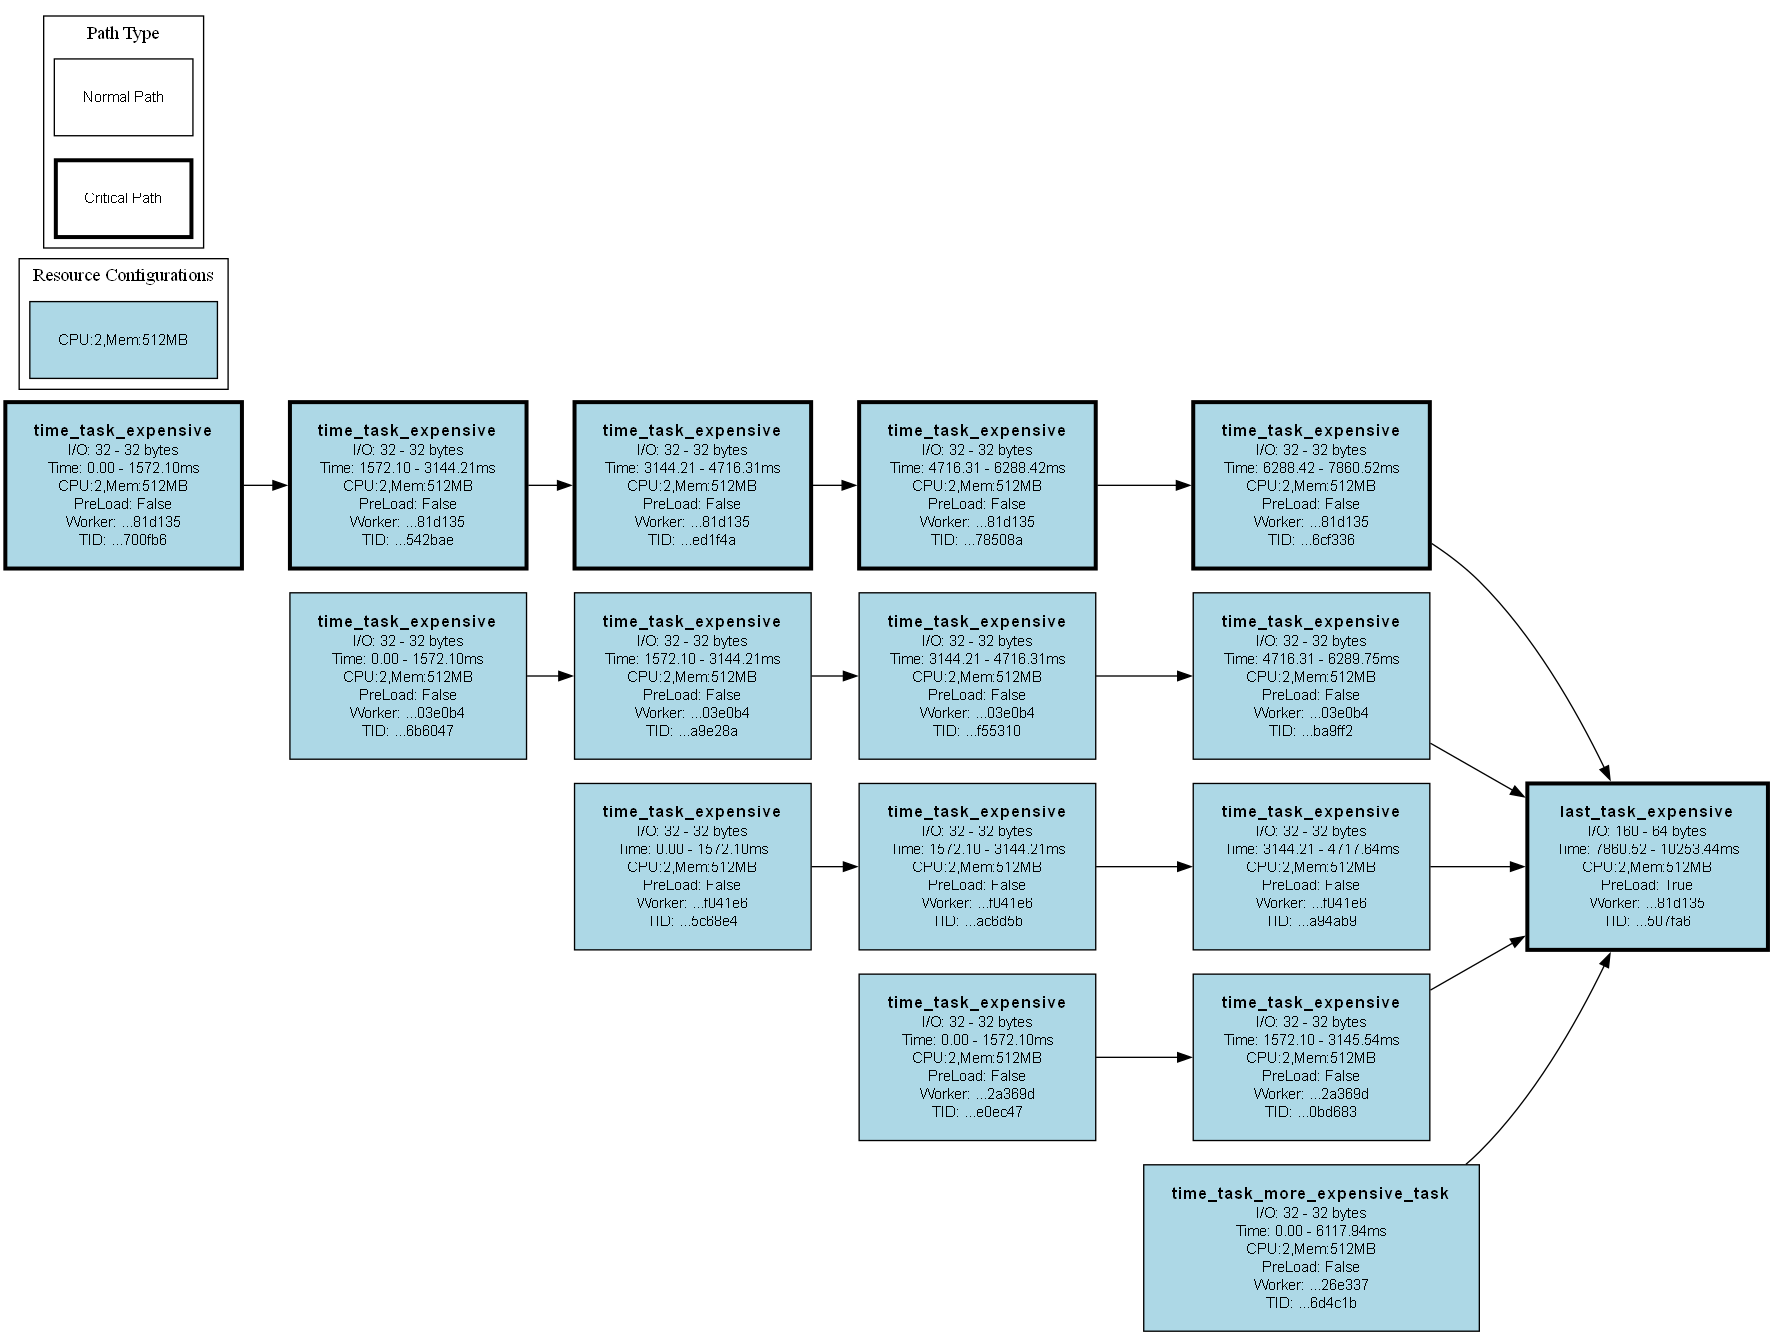
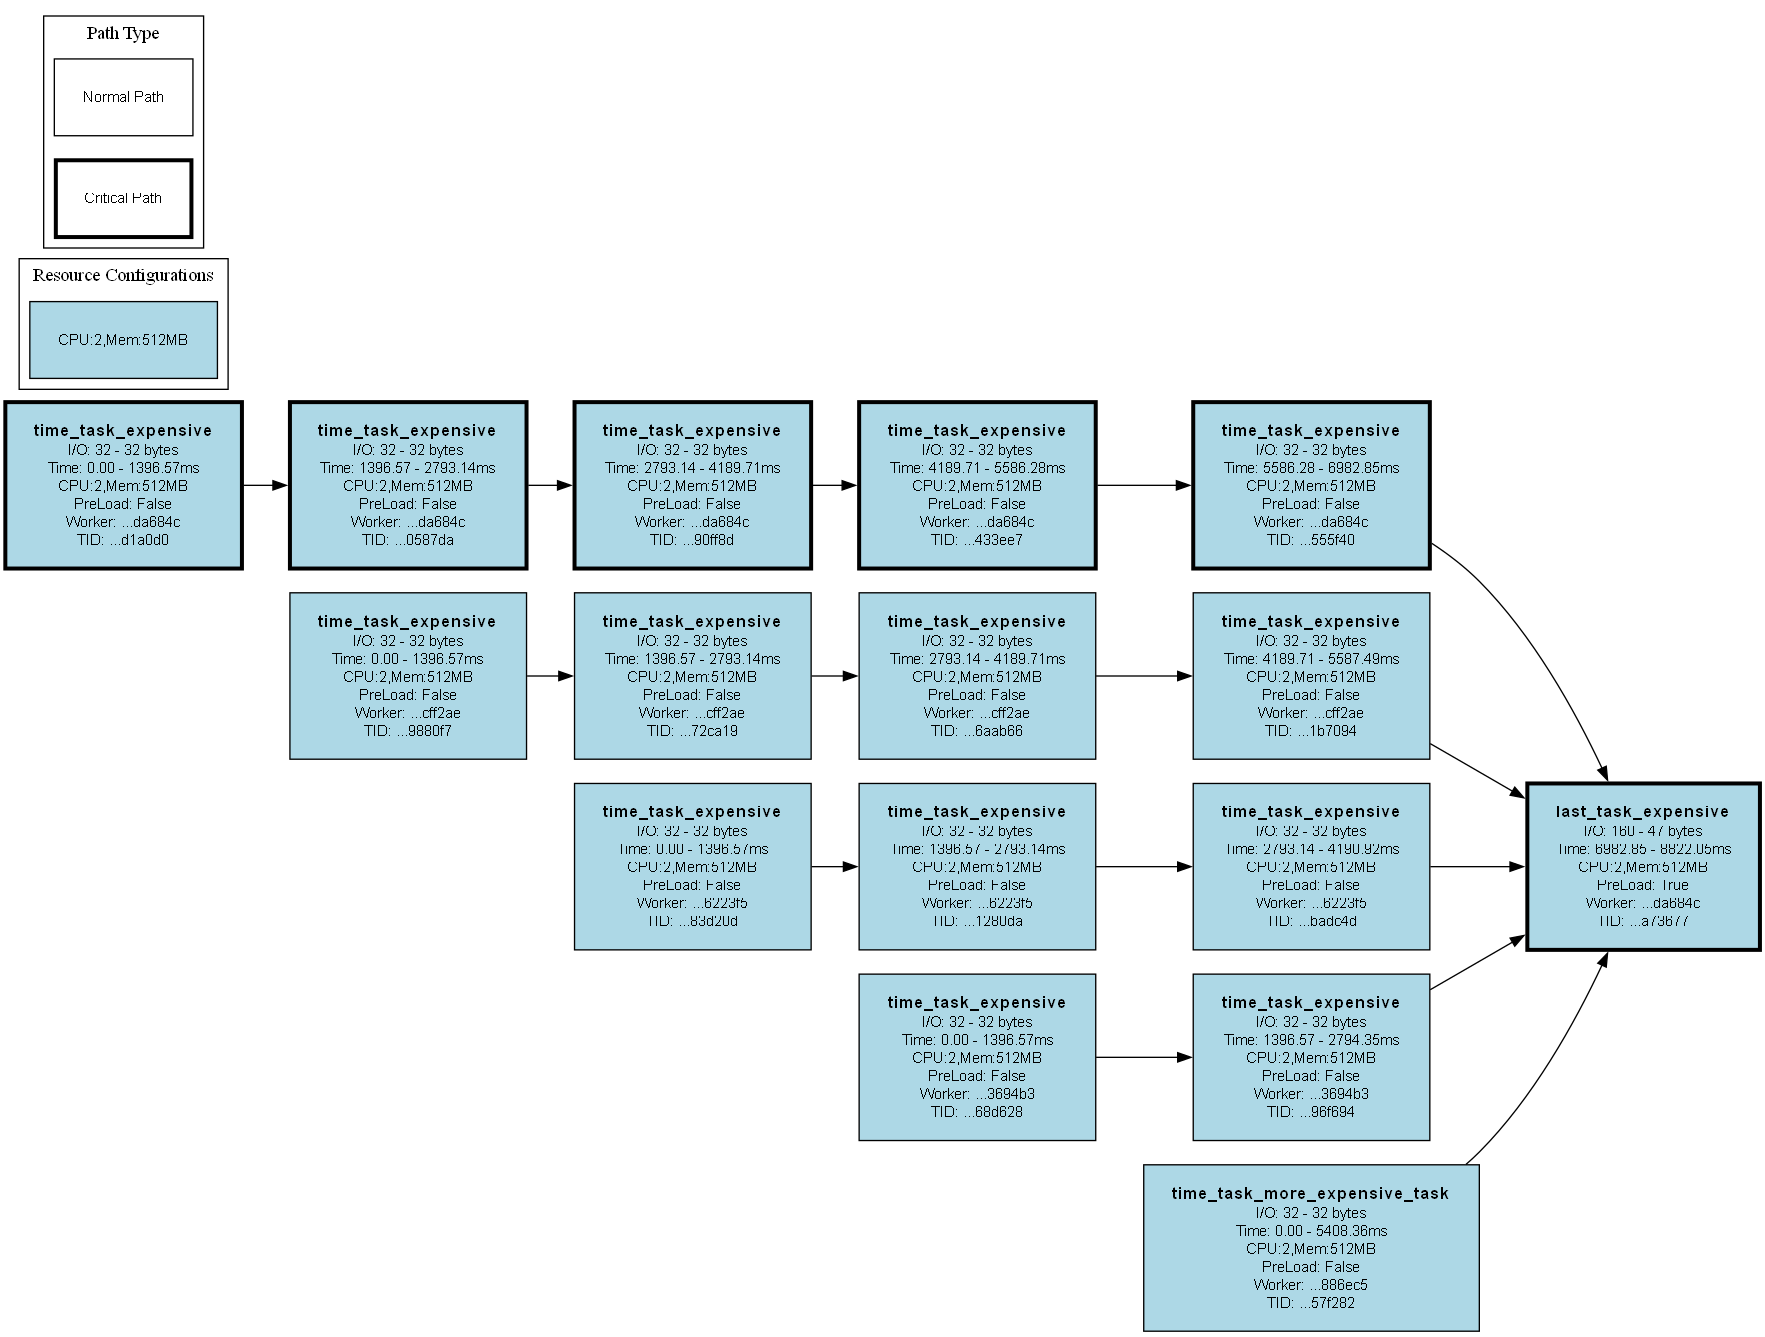
now, task input and output metrics are only stored raw and only when making predictions we normalize them to the resources used

diff --git a/src/planning/metadata_access/metadata_access.py b/src/planning/metadata_access/metadata_access.py
@@ -42,21 +42,27 @@ class MetadataAccess:
             # Store upload/download speeds with resource configuration
             if metrics.worker_resource_configuration:
                 # UPLOAD SPEEDS
-                if metrics.output_metrics.normalized_time_ms > 0: # it can be 0 if the input was present at the worker (locality)
-                    upload_speed = metrics.output_metrics.size_bytes / metrics.output_metrics.normalized_time_ms
-                    self.cached_upload_speeds.append((
-                        upload_speed,
-                        metrics.worker_resource_configuration.cpus,
-                        metrics.worker_resource_configuration.memory_mb
-                    ))
+                if metrics.output_metrics.time_ms > 0: # it can be 0 if the input was present at the worker (locality)
+                    # Normalize the upload speed based on memory
+                    normalized_time_ms = metrics.output_metrics.time_ms * (metrics.worker_resource_configuration.memory_mb / BASELINE_MEMORY_MB) ** 0.7
+                    upload_speed = metrics.output_metrics.size_bytes / normalized_time_ms if normalized_time_ms > 0 else 0
+                    if upload_speed > 0:
+                        self.cached_upload_speeds.append((
+                            upload_speed,
+                            metrics.worker_resource_configuration.cpus,
+                            metrics.worker_resource_configuration.memory_mb
+                        ))
                 # DOWNLOAD SPEEDS
-                if metrics.input_metrics.normalized_input_download_time_ms > 0: # it can be 0 if the input was present at the worker (locality)
-                    download_speed = metrics.input_metrics.downloadable_input_size_bytes / metrics.input_metrics.normalized_input_download_time_ms
-                    self.cached_download_speeds.append((
-                        download_speed,
-                        metrics.worker_resource_configuration.cpus,
-                        metrics.worker_resource_configuration.memory_mb
-                    ))
+                if metrics.input_metrics.input_download_time_ms > 0: # it can be 0 if the input was present at the worker (locality)
+                    # Normalize the download speed based on memory
+                    normalized_time_ms = metrics.input_metrics.input_download_time_ms * (metrics.worker_resource_configuration.memory_mb / BASELINE_MEMORY_MB) ** 0.7
+                    download_speed = metrics.input_metrics.downloadable_input_size_bytes / normalized_time_ms if normalized_time_ms > 0 else 0
+                    if download_speed > 0:
+                        self.cached_download_speeds.append((
+                            download_speed,
+                            metrics.worker_resource_configuration.cpus,
+                            metrics.worker_resource_configuration.memory_mb
+                        ))
 
         # Doesn't go to Redis
         for task_id, metrics in task_specific_metrics.items():

diff --git a/src/workers/worker.py b/src/workers/worker.py
@@ -7,12 +7,11 @@ from abc import ABC, abstractmethod
 
 from src.planning.abstract_dag_planner import AbstractDAGPlanner
 from src.storage.events import TASK_COMPLETION_EVENT_PREFIX, TASK_READY_EVENT_PREFIX
-from src.storage.metrics.metrics_types import TaskMetrics, TaskOutputMetrics, TaskInvocationMetrics, TaskInputMetrics
+from src.storage.metrics.metrics_types import TaskMetrics, TaskOutputMetrics, TaskInputMetrics
 from src.utils.timer import Timer
 from src.utils.utils import calculate_data_structure_size
 from src.planning.annotations.task_worker_resource_configuration import TaskWorkerResourceConfiguration
 from src.storage.metrics import metrics_storage
-from src.storage.metrics.metrics_storage import BASELINE_MEMORY_MB
 from src.utils.logger import create_logger
 import src.dag.dag as dag
 import src.dag_task_node as dag_task_node
@@ -124,7 +123,7 @@ class Worker(ABC, WorkerExecutionLogic):
                     current_task_metrics.input_metrics.downloadable_input_size_bytes += wait_result
 
                 current_task_metrics.input_metrics.input_download_time_ms = _download_dependencies_timer.stop() if len(current_task.upstream_nodes) > 0 else 0
-                current_task_metrics.input_metrics.normalized_input_download_time_ms = current_task_metrics.input_metrics.input_download_time_ms / (current_task_metrics.input_metrics.downloadable_input_size_bytes / BASELINE_MEMORY_MB) if current_task_metrics.input_metrics.downloadable_input_size_bytes > 0 else 0
+                # Store raw values, normalization will be done during prediction
 
                 # METADATA: Register the size of hardcoded arguments as well
                 for func_arg in current_task.func_args:
@@ -163,8 +162,7 @@ class Worker(ABC, WorkerExecutionLogic):
 
                 current_task_metrics.output_metrics = TaskOutputMetrics(
                     size_bytes=calculate_data_structure_size(task_result),
-                    time_ms=output_upload_time_ms,
-                    normalized_time_ms=output_upload_time_ms * (current_task_metrics.worker_resource_configuration.memory_mb / BASELINE_MEMORY_MB) if current_task_metrics.worker_resource_configuration else 0
+                    time_ms=output_upload_time_ms
                 )
 
                 if current_task.id.get_full_id() == subdag.sink_node.id.get_full_id():

diff --git a/src/storage/metrics/metrics_types.py b/src/storage/metrics/metrics_types.py
@@ -10,25 +10,20 @@ class FullDAGPrepareTime:
     size_bytes: int
 
 @dataclass
+class TaskInputMetrics:
+    hardcoded_input_size_bytes: int = 0  # known ahead of time (not "lazy", not DAGTasks)
+    downloadable_input_size_bytes: int = 0  # size of inputs that need to be downloaded
+    input_download_time_ms: float = 0  # time to download all inputs
+
+@dataclass
 class TaskOutputMetrics:
     size_bytes: int
     time_ms: float
-    normalized_time_ms: float
-
 
 @dataclass
 class TaskInvocationMetrics:
     task_id: str
     time_ms: float
-
-
-@dataclass
-class TaskInputMetrics:
-    hardcoded_input_size_bytes: int = 0  # known ahead of time (not "lazy", not DAGTasks)
-    downloadable_input_size_bytes: int = 0  # size of inputs that need to be downloaded
-    input_download_time_ms: float = 0  # time to download all inputs
-    normalized_input_download_time_ms: float = 0  # download time normalized by input size
-
 
 @dataclass
 class TaskMetrics:

diff --git a/TODO.md b/TODO.md
@@ -1,5 +1,4 @@
-for consistency:
-- Don't store task metrics input/output NORMALIZED!! normalize when predicting in metadata_access, similar to execution_time_per_input_byte_ms
+[BUG] On dashboard, observed path completion time is always the same (critical path/makespan??)
 
 [OPTIMIZATION:DATA_ACCESS]
 PIPE STORAGE OPERATIONS WHERE POSSIBLE:
